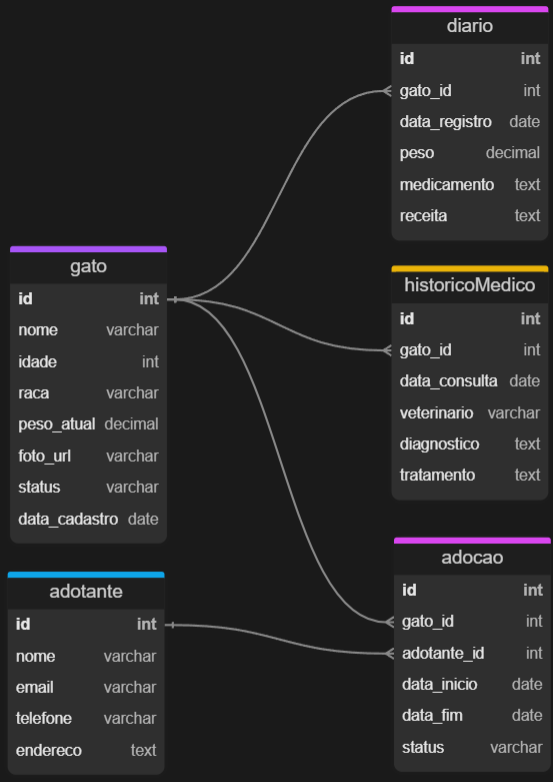
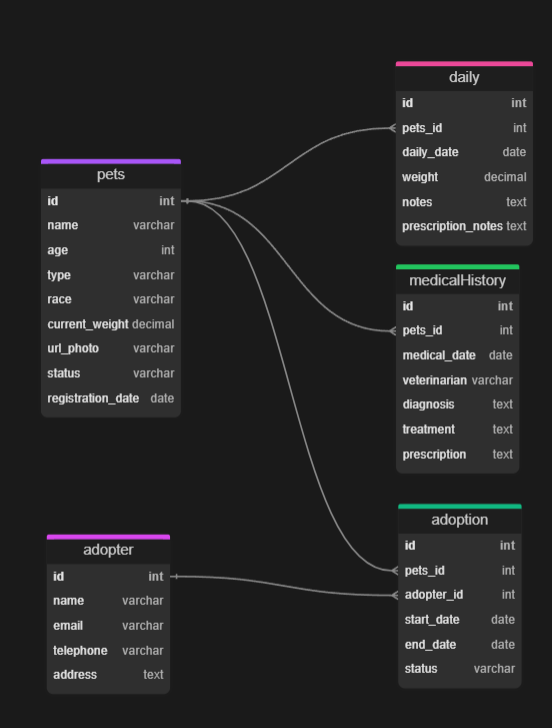
fix: atualização do banco de dados para ingles e mudanças geral de gatos para pets no geral.

diff --git a/README.md b/README.md
@@ -1,13 +1,13 @@
-# **PURRFECT CARE**
-Um sistema open-source para gerenciamento de gatinhos, com o objetivo de cadastrar, acompanhar, gerenciar gatinhos, entre outras funções que serão adicionadas futuramente. 
+# **ÍRIS**
+Um sistema open-source para gerenciamento de pets, com o objetivo de cadastrar, acompanhar, gerenciar bichinhos, entre outras funções que serão adicionadas futuramente. 
 Será desenvolvido com um front-end e back-end em Next.js e um banco hospedado no PostgreSQL.
 
 # BANCO DE DADOS
-O banco de dados vai armazenar os dados principais do gerenciamento dos gatinhos, como dados pessoais, histórico médico, processo de adoção e dos adotantes. Vai ser usado **PostgreSQL** por ser um banco de dados relacional robusto e mais utilizado para aplicações web com **Next.js**.
+O banco de dados vai armazenar os dados principais do gerenciamento dos pets, como dados pessoais, histórico médico, processo de adoção e dos adotantes. Vai ser usado **PostgreSQL** por ser um banco de dados relacional robusto e mais utilizado para aplicações web com **Next.js**.
 
 ## Entidades
 
-**Gato**: Representa cada animal cadastrado
+**Pet**: Representa cada animal cadastrado
 
 **Adotante**: Representa quem adotou o animal, ou tem interesse
 
@@ -15,16 +15,17 @@ O banco de dados vai armazenar os dados principais do gerenciamento dos gatinhos
 
 **Histórico Medico**: Todas as informações sobre consultas, diagnósticos, tratamentos, etc.
 
-**Adoção**: Entidade responsável por conectar o Gato e o Adotante
+**Adoção**: Entidade responsável por conectar o Pet e o Adotante
 
 
 ## Atributos
 
 
-**Gato**:
+**Pets**:
 * id (PK)
 * nome
 * idade
+* tipo
 * raça
 * peso_atual
 * foto_url
@@ -42,32 +43,33 @@ O banco de dados vai armazenar os dados principais do gerenciamento dos gatinhos
 **Diario**:
 
 * id (PK)
-* gato_id (FK-Gato.id)
-* data_registro
+* pets_id (FK-Pets.id)
+* registro_diario
 * peso
-* medicamento (texto livre)
-* receita (texto livre)
+* notas (texto livre)
+* observacao_receita (texto livre)
 
 **Histórico Medico**
 * id (PK)
-* gato_id (FK-Gato.id)
+* pets_id (FK-Pets.id)
 * data_consulta
 * veterinario
 * diagnostico
 * tratamento
+* receita
 
 **Adoção**
 * id(PK)
-* gato_id (FK-Gato.id)
+* pets_id (FK-Pets.id)
 * adotante_id (FK-Adotante.id)
 * data_inicio
 * data_fim (se houver)
 * status (ativa, finalizada, cancelada)
 
 ## Relacionamentos
-* Gato - Diario > 1:N (um gato pode ter vários registros no diário)
-* Gato - Historico Médico > 1:N (um gato pode ter várias consultas)
-* Gato - Adoção - Adotante > N:M (um gato pode estar associado a diferentes adotantes adotantes, dependendo. Assim como um adotante pode ter vários gatos)
+* Pet - Diario > 1:N (um pet pode ter vários registros no diário)
+* Pet - Historico Médico > 1:N (um pet pode ter várias consultas)
+* Pet - Adoção - Adotante > N:M (um pet pode estar associado a diferentes adotantes adotantes, dependendo. Assim como um adotante pode ter vários pets)
 
 ## DER - Diagrama Entidade-Relacionamento
 
